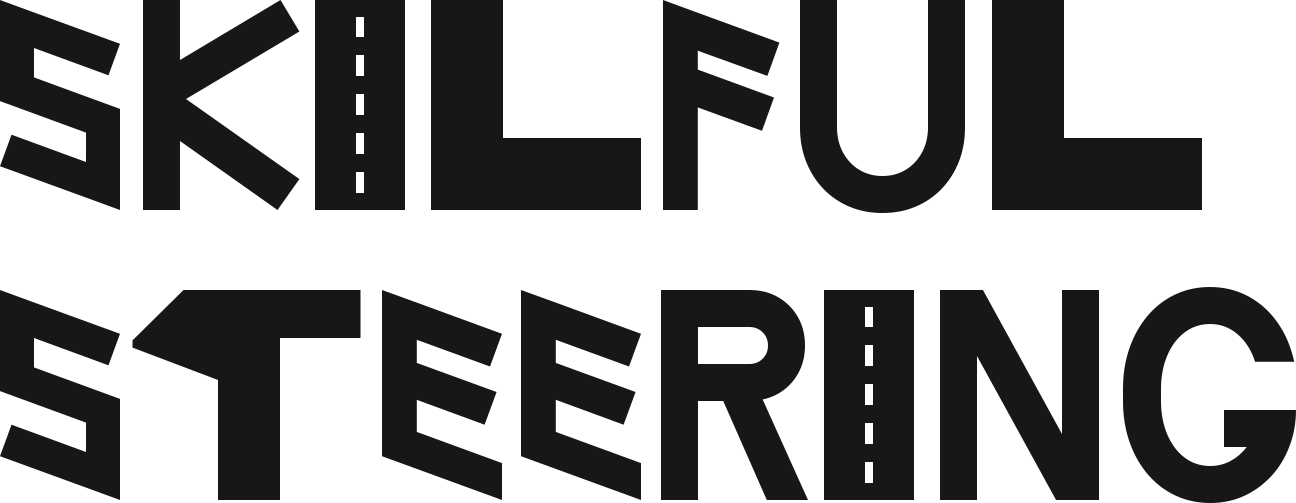
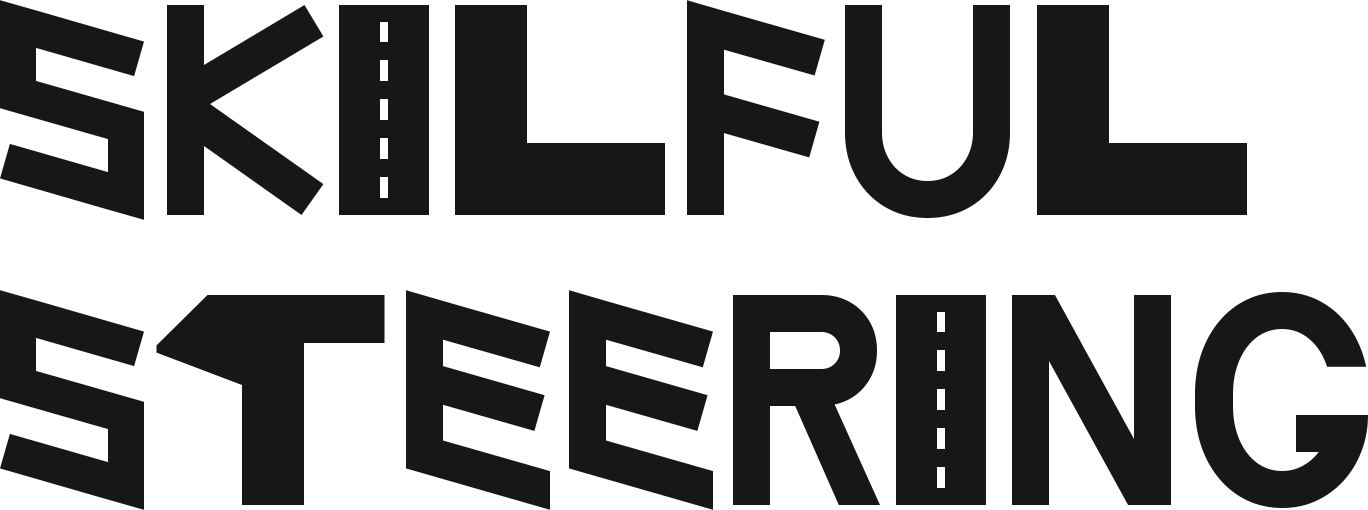
Fuller S, E and F: wider, same weight, overshoot, 16 degree slant

diff --git a/index.html b/index.html
@@ -129,7 +129,7 @@
   <section class="hero">
     <div class="ht" aria-hidden="true"><i></i><i></i><i></i></div>
     <span class="label">Typeface</span>
-    <img class="title" src="title.png" alt="Skilful Steering" width="1296" height="503">
+    <img class="title" src="title.png" alt="Skilful Steering" width="1368" height="510">
     <p>Road lettering drawn by hand, turned into a font. Slanted S, E and F, a junction-sign T, a road I and a learner-plate L.</p>
   </section>
 
